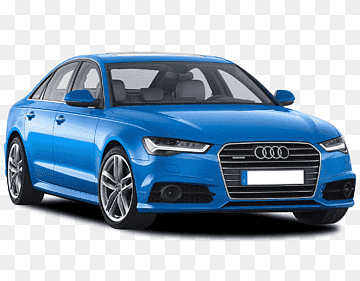
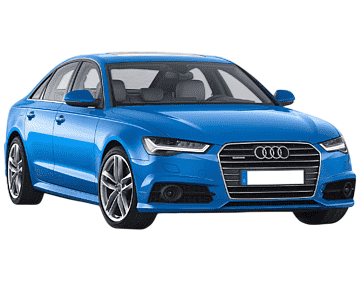
Alterado modelo 3D para PNG

Changed region(s): [[0.0306, 0.6833, 0.9472, 0.8826], [0.9472, 0.7402, 0.9778, 0.7687], [0.7944, 0.3701, 0.825, 0.3986]]

diff --git a/velocimetro.html b/velocimetro.html
@@ -55,7 +55,7 @@
       <div class="gauge">
         <div class="inner">
           <div class="label">Pressão</div>
-          <div class="value">42Psi</div>
+          <div class="value">42Kpa</div>
         </div>
       </div>
 
@@ -64,7 +64,8 @@
        <iframe src="teste.html"class=iframe-speedometer></iframe>
       </div>
       <div class="model-car">
-        <iframe src="modelo3D.html" class=iframe-model></iframe>
+        <!-- <iframe src="modelo3D.html" class=iframe-model></iframe> -->
+         <img src="/img/photoAudiA8.png" class="car-model-image" />
       </div>
       
       <!-- Velocímetro Direito (TEMP) -->

diff --git a/fullscreen.css b/fullscreen.css
@@ -422,3 +422,13 @@ body {
   }
 }
 
+
+.car-model-image{
+    width: 580px;
+    height: 400px;
+    border-radius: 12px;
+    position: absolute;
+    top: 568px;
+    right: 693px;
+    opacity: 0.7;
+}
